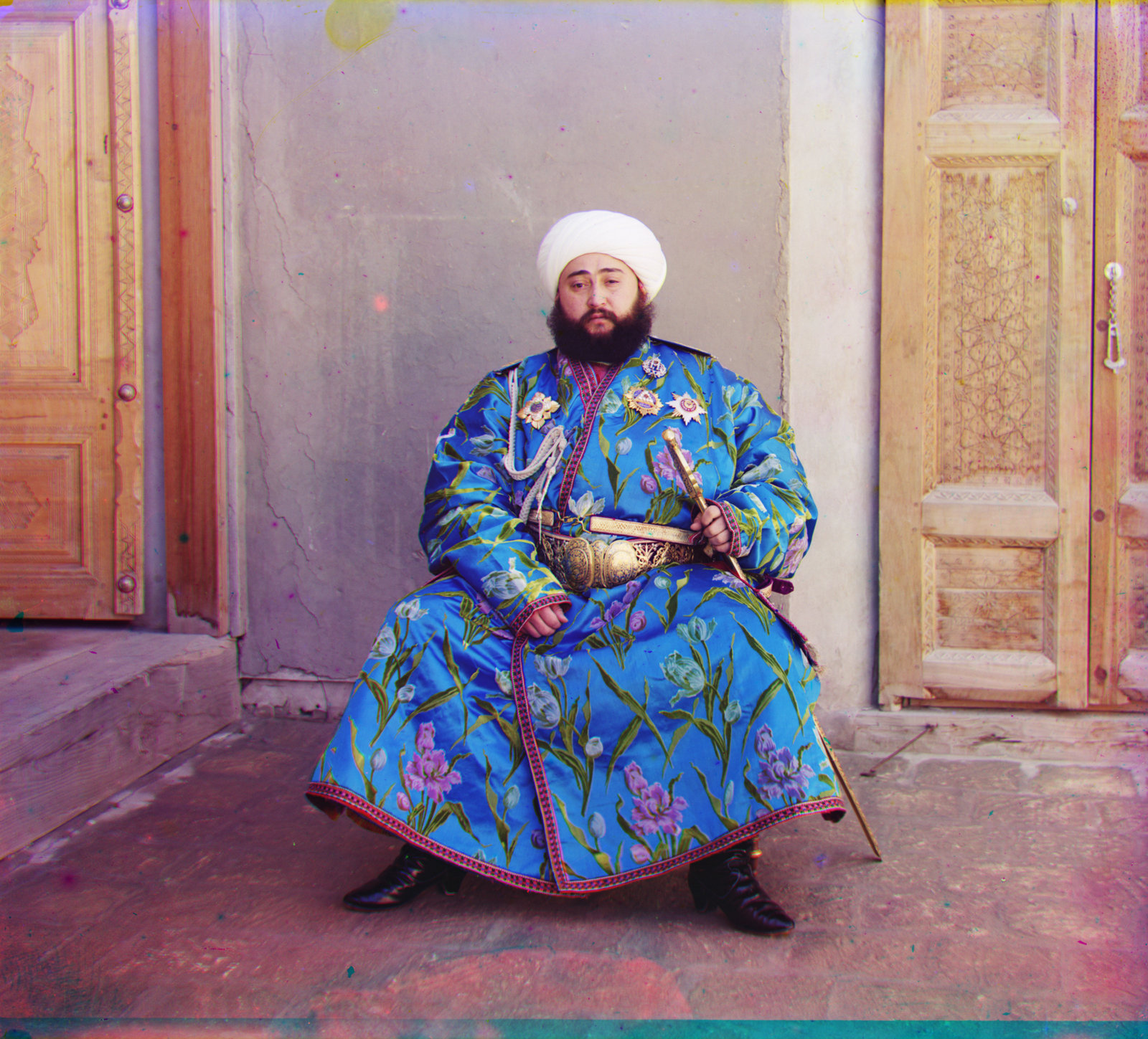
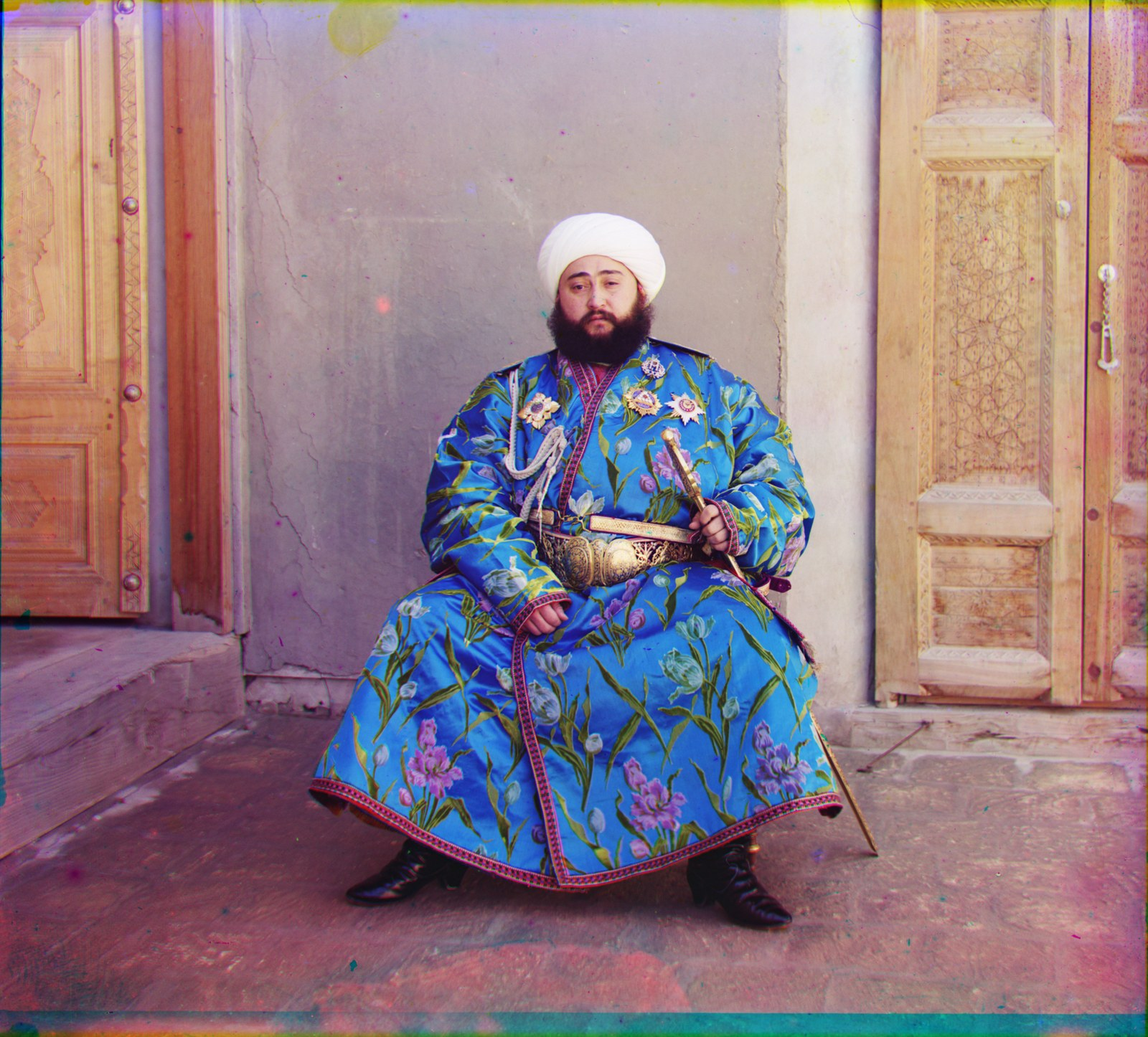
Expand Project 1 explanation and bells and whistles

diff --git a/cs180_proj1/index.html b/cs180_proj1/index.html
@@ -35,6 +35,7 @@
     <a href="#pyramid">Pyramid</a>
     <a href="#extras">Extra images</a>
     <a href="#emir">Emir</a>
+    <a href="#bells">Bells &amp; whistles</a>
   </nav>
 
   <section id="overview" class="project-section">
@@ -76,6 +77,18 @@
     <h2>Image pyramid</h2>
     <p>A full search over a large displacement range is too expensive for the TIFF files. I repeatedly blur and downsample by a factor of two until the image is small. I search ±15 pixels at the coarsest level, double that offset when moving to the next level, and then search ±2 pixels around the estimate.</p>
     <p>NCC worked well on all of the provided images except Emir.</p>
+
+    <h3>What the pyramid looks like</h3>
+    <p>The blue channel of Emir below shows the actual pyramid used by the search. L0 is the full-resolution image. Each next level is blurred and downsampled by two, so L4 is only 1/16 as wide and tall. The alignment starts at L4, where a ±15-pixel search covers a large displacement in the original image, then the offset is doubled and refined by ±2 pixels at each finer level.</p>
+    <div class="breakout">
+      <div class="media-grid three">
+        <figure><div class="figure-frame"><img src="media/figs/pyramid_emir_L4.jpg" alt="Emir pyramid level 4, coarsest"></div><figcaption><strong>L4.</strong> Coarsest level, about 1/16 scale. Search starts here.</figcaption></figure>
+        <figure><div class="figure-frame"><img src="media/figs/pyramid_emir_L3.jpg" alt="Emir pyramid level 3"></div><figcaption><strong>L3.</strong> Offset doubled, then refined locally.</figcaption></figure>
+        <figure><div class="figure-frame"><img src="media/figs/pyramid_emir_L2.jpg" alt="Emir pyramid level 2"></div><figcaption><strong>L2.</strong> About 1/4 scale.</figcaption></figure>
+        <figure><div class="figure-frame"><img src="media/figs/pyramid_emir_L1.jpg" alt="Emir pyramid level 1"></div><figcaption><strong>L1.</strong> Half resolution.</figcaption></figure>
+        <figure><div class="figure-frame"><img src="media/figs/pyramid_emir_L0.jpg" alt="Emir pyramid level 0, full resolution"></div><figcaption><strong>L0.</strong> Full resolution and final refinement.</figcaption></figure>
+      </div>
+    </div>
 
     <div class="breakout">
       <div class="media-grid three">
@@ -146,6 +159,28 @@
     </div>
 
     <p>There are also a few small color fringes in some images that cannot be removed perfectly with only an x/y translation. Moving people can also create local artifacts because the three exposures were taken at different times.</p>
+  </section>
+
+  <section id="bells" class="project-section">
+    <h2>Bells and whistles</h2>
+    <p>After the basic alignment worked, I tried a small finishing pipeline. The important alignment change is to compare gradient magnitude instead of raw intensity. Gradient magnitude emphasizes edges and is less sensitive to the large brightness differences between Emir's color channels.</p>
+    <div class="math">\[G(I)=\sqrt{\left(\frac{\partial I}{\partial x}\right)^2+\left(\frac{\partial I}{\partial y}\right)^2}\]</div>
+    <p>After alignment, I also remove the wrapped/non-overlapping border and trim dark plate borders near the edges. For color, I estimate a conservative white balance from the lowest-chroma pixels rather than assuming the whole image should average to gray. Finally I apply one shared percentile contrast stretch to all three channels so the contrast changes without changing their relative color balance.</p>
+
+    <div class="panel corner-ticks">
+      <div class="panel-title">Finishing pipeline</div>
+      <p class="caption">gradient NCC → border crop → gray-pixel white balance → shared contrast stretch</p>
+    </div>
+
+    <p>Emir makes the progression easiest to see. The first image below is already correctly aligned with gradients; the remaining stages only clean the presentation and do not change the alignment offsets.</p>
+    <div class="breakout">
+      <div class="media-grid four">
+        <figure><div class="figure-frame"><img src="media/bells_grad/emir.jpg" alt="Emir after gradient-based alignment"></div><figcaption><strong>1 · Gradient NCC.</strong> Correct alignment, G (24, 49), R (40, 107).</figcaption></figure>
+        <figure><div class="figure-frame"><img src="media/bells_crop/emir.jpg" alt="Emir after automatic border crop"></div><figcaption><strong>2 · Crop.</strong> Remove wraparound and plate borders.</figcaption></figure>
+        <figure><div class="figure-frame"><img src="media/bells_wb/emir.jpg" alt="Emir after gray-pixel white balance"></div><figcaption><strong>3 · White balance.</strong> Estimate the cast from neutral pixels.</figcaption></figure>
+        <figure><div class="figure-frame"><img src="media/bells_final/emir.jpg" alt="Final processed Emir image"></div><figcaption><strong>4 · Final.</strong> Shared percentile contrast stretch.</figcaption></figure>
+      </div>
+    </div>
   </section>
 </main>
 

diff --git a/cs180_proj1/code/main.py b/cs180_proj1/code/main.py
@@ -51,6 +51,45 @@ def run_one(path, stage, out_dir, method='pyramid', metric='ncc', feature='raw')
     }
 
 
+def save_pyramid_levels(path, out_dir):
+    """Save the blue-channel pyramid used to illustrate coarse-to-fine alignment."""
+    plate = align.to_float(skio.imread(path))
+    blue, _, _ = align.split_bgr(plate)
+    for level, im in enumerate(align.make_pyramid(blue)):
+        rgb = np.dstack([im, im, im])
+        save_result(rgb, out_dir, 'figs', f'pyramid_{Path(path).stem}_L{level}')
+
+
+def run_bells(path, out_dir):
+    """Gradient alignment followed by crop, white balance, and contrast."""
+    plate = align.to_float(skio.imread(path))
+    start = time.perf_counter()
+    rgb, g_off, r_off = align.colorize(plate, 'pyramid', 'ncc', 'grad')
+    elapsed = time.perf_counter() - start
+
+    # auto_crop expects the internal (y, x) convention
+    dg = (g_off[1], g_off[0])
+    dr = (r_off[1], r_off[0])
+    cropped = align.auto_crop(rgb, dg, dr)
+    balanced = align.white_balance(cropped)
+    final = align.auto_contrast(balanced)
+
+    name = Path(path).stem
+    save_result(rgb, out_dir, 'bells_grad', name)
+    save_result(cropped, out_dir, 'bells_crop', name)
+    save_result(np.clip(balanced, 0, 1), out_dir, 'bells_wb', name)
+    save_result(final, out_dir, 'bells_final', name)
+
+    print(f'{Path(path).name:28s}  G {g_off!s:12s}  R {r_off!s:12s}  {elapsed:.2f}s  + post')
+    return {
+        'stage': 'bells_grad',
+        'image': name,
+        'g': g_off,
+        'r': r_off,
+        'time': elapsed,
+    }
+
+
 def write_results(rows, out_dir):
     out_dir = Path(out_dir)
     out_dir.mkdir(parents=True, exist_ok=True)
@@ -90,12 +129,19 @@ def main():
     parser.add_argument('--data', required=True, help='folder containing the provided plates')
     parser.add_argument('--extra', help='folder containing my extra Prokudin-Gorskii plates')
     parser.add_argument('--out', default='out')
+    parser.add_argument('--only', help='optional comma-separated image names, for example emir,church')
     parser.add_argument('--no-l2', action='store_true', help='skip full pyramid L2 comparison')
-    parser.add_argument('--no-gradient', action='store_true', help='skip gradient-feature comparison')
+    parser.add_argument('--no-gradient', action='store_true', help='skip gradient/crop/color comparison')
     args = parser.parse_args()
 
     course = image_files(args.data)
     extra = image_files(args.extra) if args.extra else []
+
+    if args.only:
+        wanted = {x.strip() for x in args.only.split(',') if x.strip()}
+        course = [p for p in course if p.stem in wanted]
+        extra = [p for p in extra if p.stem in wanted]
+
     small = [p for p in course if p.suffix.lower() in {'.jpg', '.jpeg'}]
 
     print(f'{len(course)} course plates, {len(extra)} extra plates')
@@ -112,6 +158,8 @@ def main():
     print('\nPyramid NCC')
     for p in course:
         rows.append(run_one(p, 'ncc', args.out, metric='ncc'))
+        if p.stem == 'emir':
+            save_pyramid_levels(p, args.out)
 
     if extra:
         print('\nExtra images')
@@ -124,9 +172,9 @@ def main():
             rows.append(run_one(p, 'l2', args.out, metric='l2'))
 
     if not args.no_gradient:
-        print('\nGradient NCC')
+        print('\nBells and whistles')
         for p in course + extra:
-            rows.append(run_one(p, 'bells_grad', args.out, metric='ncc', feature='grad'))
+            rows.append(run_bells(p, args.out))
 
     write_results(rows, args.out)
     print(f'\nDone. Results are in {args.out}')

diff --git a/cs180_proj1/code/align.py b/cs180_proj1/code/align.py
@@ -61,7 +61,7 @@ def search(moving, fixed, center=(0, 0), radius=15, metric='ncc', crop=0.10):
 
 
 def blur(im):
-    # small gaussian-like blur before shrinking
+    # 5-tap binomial filter, used before each downsample
     k = np.array([1, 4, 6, 4, 1], dtype=np.float32) / 16.0
     r = 2
 
@@ -78,6 +78,7 @@ def downsample(im):
 
 
 def make_pyramid(im, max_size=400):
+    # full resolution first, coarsest image last
     pyr = [im]
     while max(pyr[-1].shape) > max_size:
         pyr.append(downsample(pyr[-1]))
@@ -131,5 +132,86 @@ def colorize(plate, method='pyramid', metric='ncc', feature='raw'):
     ar = shift(r, *dr)
     rgb = np.dstack([ar, ag, b])
 
-    # return x,y because that is how the project asks us to report offsets
+    # report x,y even though np.roll uses y,x internally
     return rgb, (dg[1], dg[0]), (dr[1], dr[0])
+
+
+# Bells and whistles ---------------------------------------------------------
+
+def valid_overlap(shape, dg, dr):
+    """Region not contaminated by np.roll wraparound."""
+    h, w = shape[:2]
+    ys = [0, dg[0], dr[0]]
+    xs = [0, dg[1], dr[1]]
+    return max(ys), h + min(ys), max(xs), w + min(xs)
+
+
+def _block_mean(im, k):
+    h = (im.shape[0] // k) * k
+    w = (im.shape[1] // k) * k
+    return im[:h, :w].reshape(h // k, k, w // k, k, 3).mean(axis=(1, 3))
+
+
+def auto_crop(rgb, dg=(0, 0), dr=(0, 0), band=0.12, dark=0.12):
+    """Remove roll wraparound, then trim dark plate borders near the edges."""
+    top, bottom, left, right = valid_overlap(rgb.shape, dg, dr)
+    im = rgb[top:bottom, left:right]
+
+    # Detect borders on a small thumbnail so this stays cheap on TIFFs.
+    k = max(1, int(np.ceil(max(im.shape[:2]) / 800)))
+    thumb = _block_mean(im, k)
+    border = thumb.min(axis=2) < dark
+    h, w = border.shape
+
+    def edge_cut(frac, n):
+        limit = int(band * n)
+        clean_needed = max(2, int(0.025 * n))
+        last_border = 0
+        clean = 0
+        for i in range(limit):
+            if frac[i] > 0.60:
+                last_border = i + 1
+                clean = 0
+            else:
+                clean += 1
+                if clean >= clean_needed:
+                    break
+        return last_border
+
+    rows = border.mean(axis=1)
+    cols = border.mean(axis=0)
+    ct = edge_cut(rows, h)
+    cb = edge_cut(rows[::-1], h)
+    cl = edge_cut(cols, w)
+    cr = edge_cut(cols[::-1], w)
+
+    y0 = top + ct * k
+    y1 = top + (h - cb) * k
+    x0 = left + cl * k
+    x1 = left + (w - cr) * k
+    return rgb[y0:y1, x0:x1]
+
+
+def white_balance(rgb, frac=0.20):
+    """Estimate color cast from the lowest-chroma pixels and scale RGB channels."""
+    pixels = rgb[::4, ::4].reshape(-1, 3).astype(np.float64)
+    brightness = pixels.mean(axis=1)
+    mx = pixels.max(axis=1)
+    mn = pixels.min(axis=1)
+    good = (brightness > 0.10) & (mx < 0.97)
+    if good.sum() < 100:
+        return rgb
+
+    pixels = pixels[good]
+    chroma = (mx[good] - mn[good]) / brightness[good]
+    neutral = pixels[chroma <= np.quantile(chroma, frac)]
+    means = neutral.mean(axis=0)
+    gains = np.clip(means.mean() / np.maximum(means, 1e-6), 0.9, 1.1)
+    gains /= gains.max()
+    return rgb * gains.astype(np.float32)
+
+
+def auto_contrast(rgb, low=0.5, high=99.5):
+    """Shared percentile stretch, so contrast changes without changing color balance."""
+    a, b = np.percentile(rgb[::4, ::4], [low, high])
+    return np.clip((rgb - a) / max(b - a, 1e-6), 0, 1)

diff --git a/cs180_proj1/code/README.md b/cs180_proj1/code/README.md
@@ -1,46 +1,62 @@
-CS180 Project 1 - Images of the Russian Empire
+# CS180 Project 1 - Images of the Russian Empire
+
 Hovhannes Antablyan
 
-Files
------
-align.py   alignment code (single-scale, pyramid, NCC/L2, gradient feature)
-main.py    runs the code on the provided and extra images
+## Files
 
-Setup
------
+- `align.py` - alignment code: single-scale search, image pyramid, NCC/L2, gradient features, and post-processing helpers
+- `main.py` - runs the experiments and writes the result images/tables
+
+## Setup
+
 Python 3.9+
 
+```text
 pip install numpy scikit-image pillow
+```
 
-Data
-----
+## Data
+
 Provided plates are in:
-  data/course/
+
+```text
+data/course/
+```
 
 My additional Prokudin-Gorskii plates are in:
-  data/extra/
 
-Run
----
-From the cs180_proj1 folder:
+```text
+data/extra/
+```
 
+## Run
+
+From the `cs180_proj1` folder:
+
+```text
 python code/main.py --data data/course --extra data/extra --out out
+```
 
 The script runs:
+
 - single-scale NCC and L2 on the small JPG images
 - pyramid NCC on all provided images
 - pyramid NCC on the extra images
 - pyramid L2 for comparison
-- gradient NCC for comparison, mainly to improve Emir
+- gradient-NCC alignment followed by automatic border cropping, gray-pixel white balance, and a shared contrast stretch
+- an Emir pyramid visualization under `out/figs/`
 
-It prints the G and R offsets and writes results.csv and results.md.
-Full-size results go under out/. Smaller webpage copies generated by the
-script go under out/web/.
+It prints the G and R offsets and writes `results.csv` and `results.md`.
+Full-size results go under `out/`, with smaller copies under `out/web/`.
+The website uses selected copies stored in `media/`.
 
-The website uses the copies stored in media/.
+For a quick test on Emir only:
 
-Offset convention
------------------
-Offsets are printed as (x, y).
-Positive x moves right and positive y moves down.
-G and R are aligned to the blue channel.
+```text
+python code/main.py --data data/course --extra data/extra --out out_test --only emir --no-l2
+```
+
+## Offset convention
+
+Offsets are printed as `(x, y)`. Positive x moves right and positive y moves down.
+Green and red are aligned to the blue channel.
